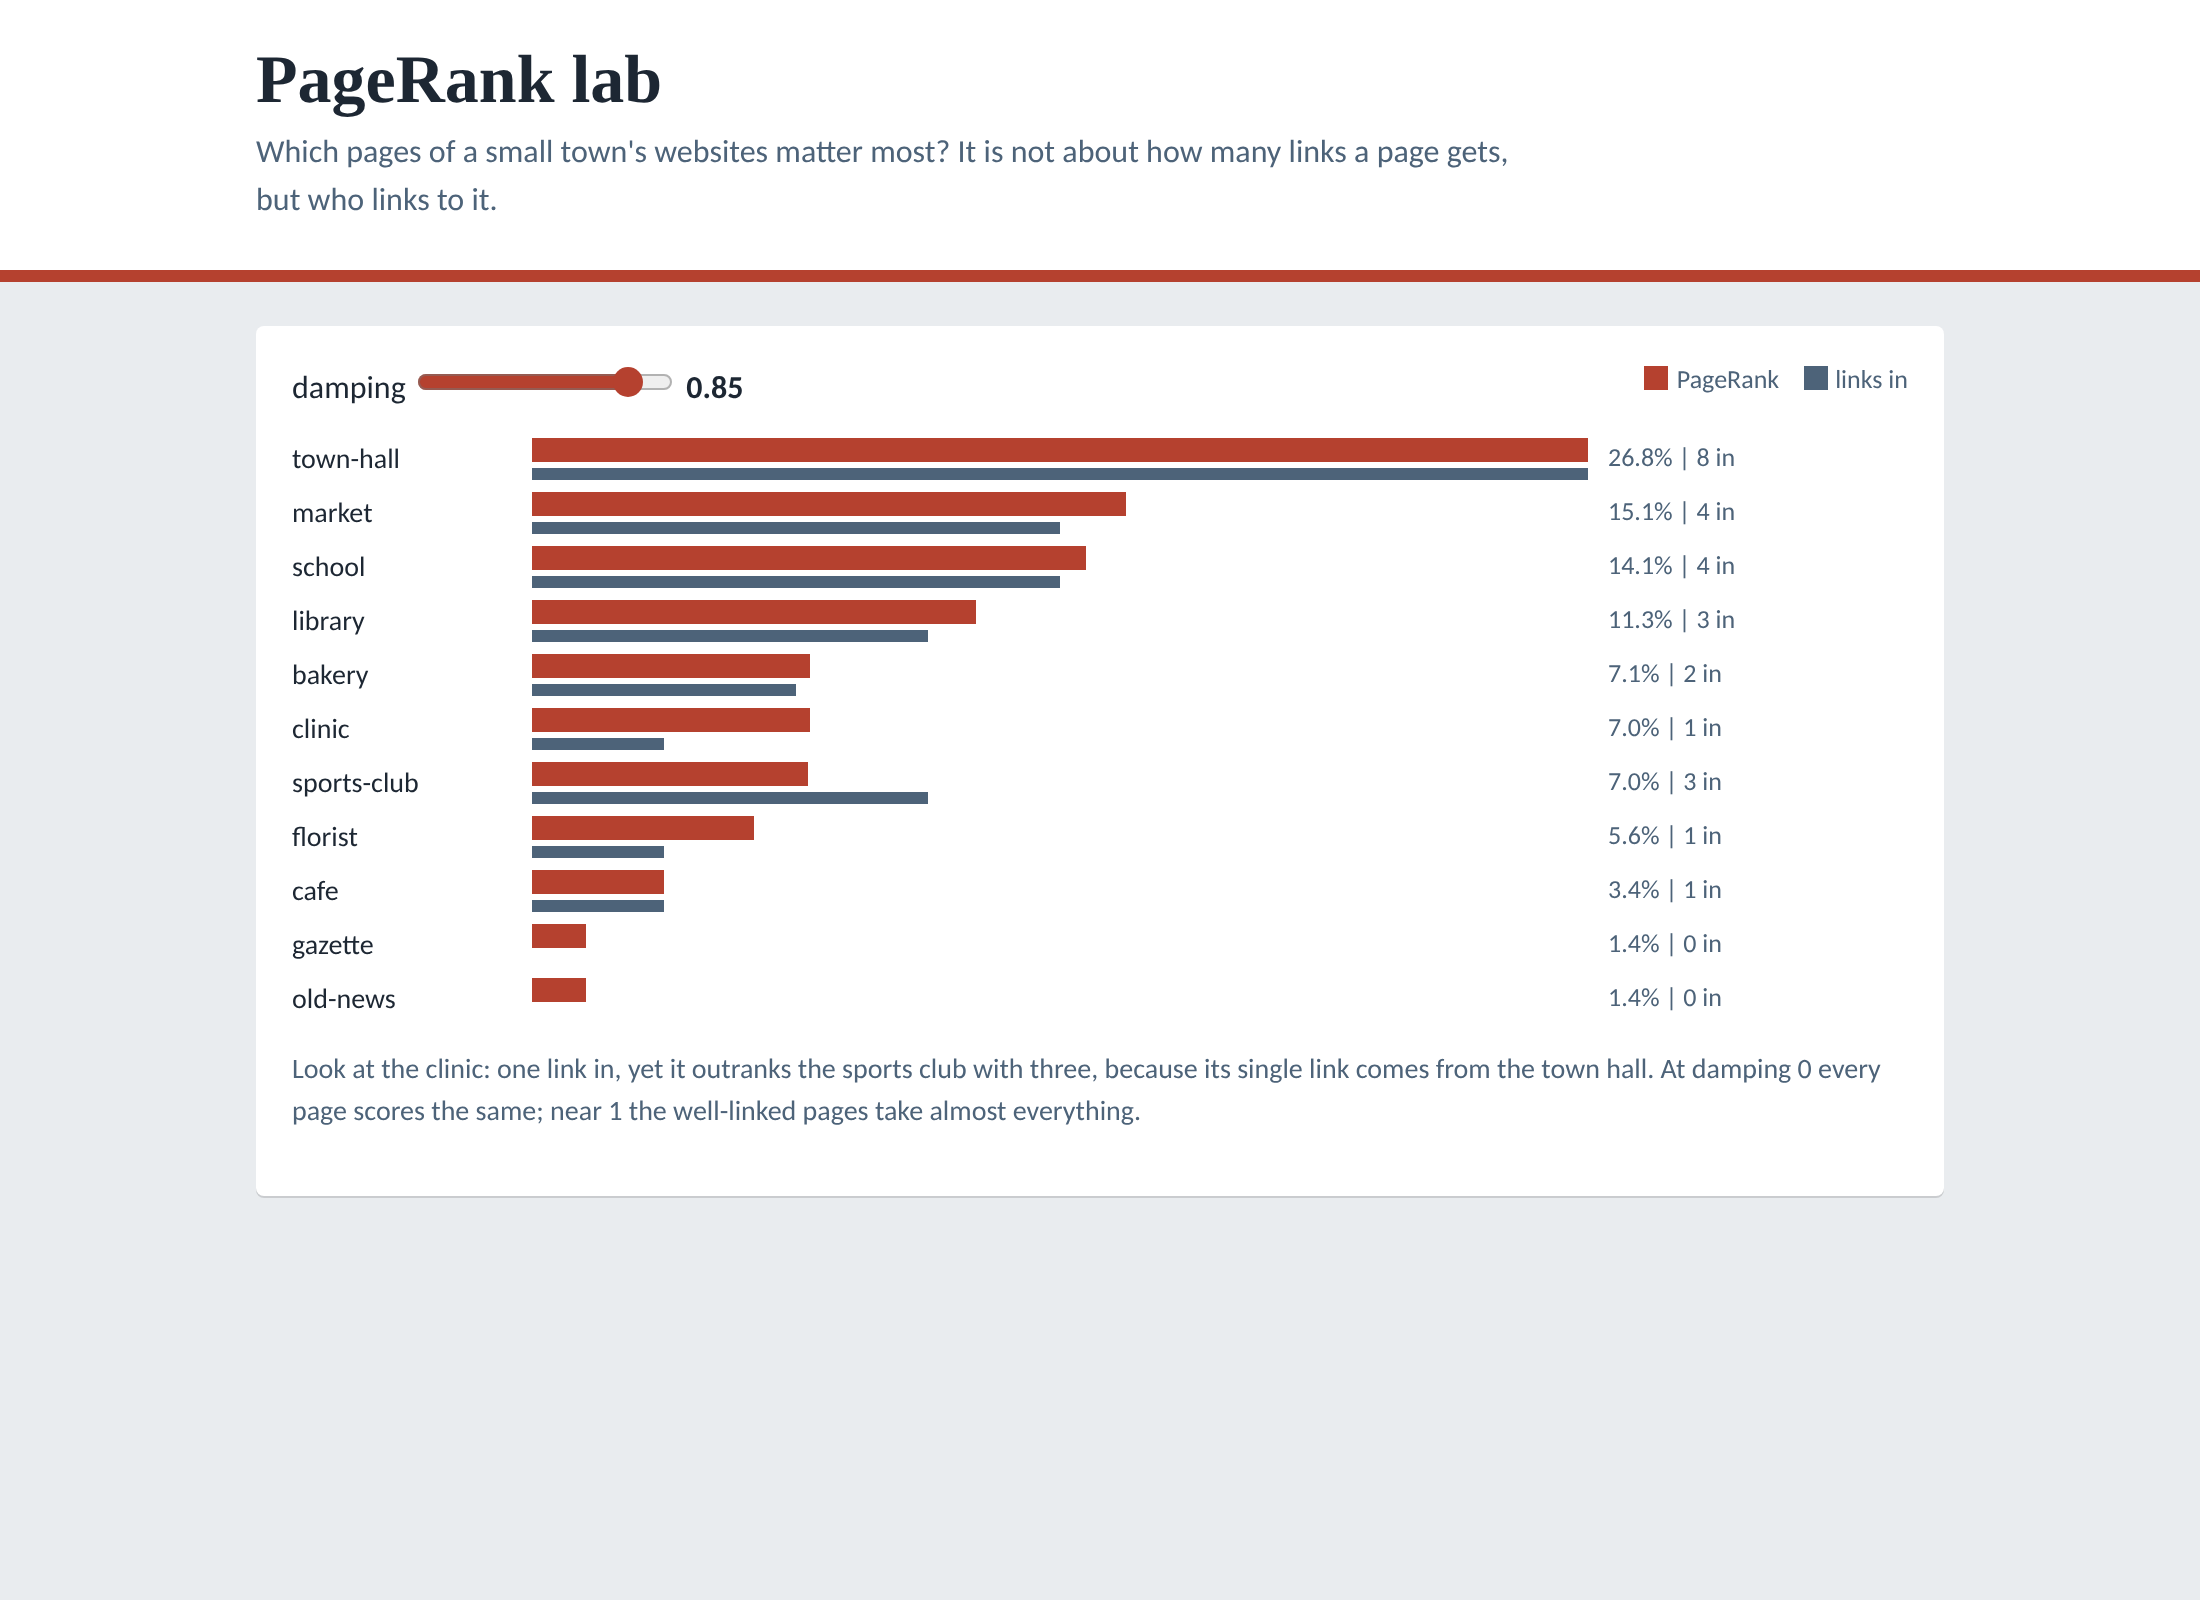
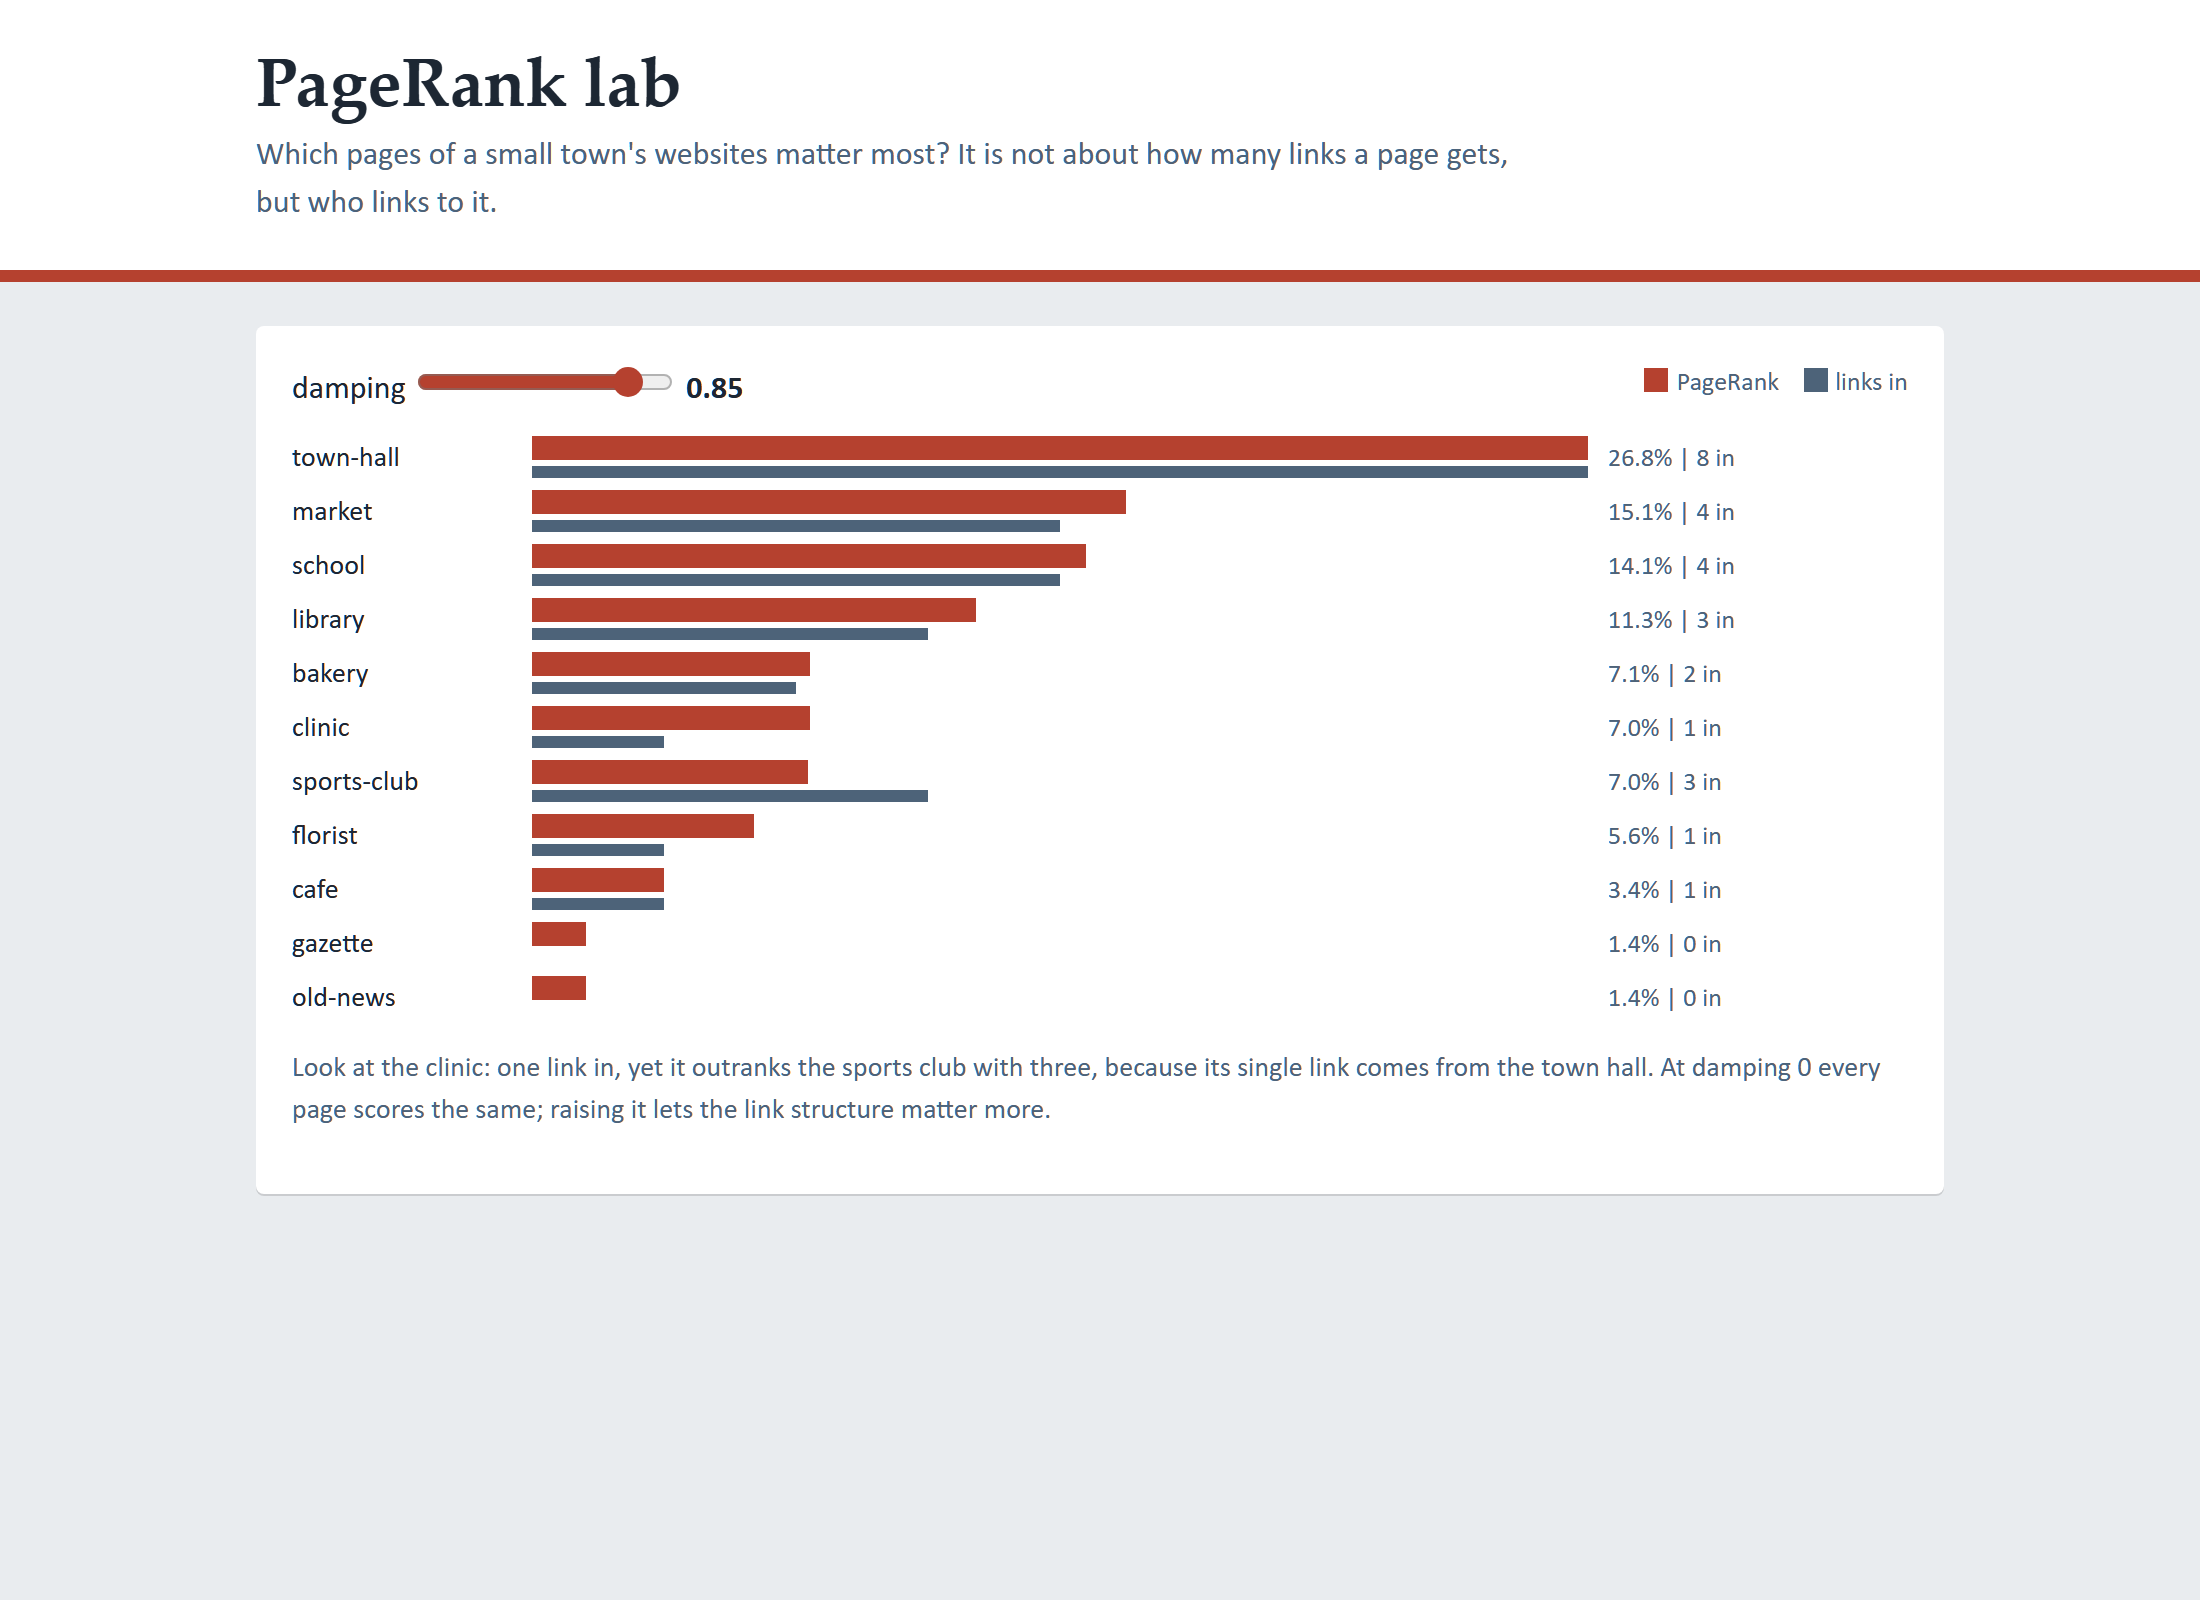
Improve pagerank-lab

diff --git a/projects/pagerank-lab/static/index.html b/projects/pagerank-lab/static/index.html
@@ -11,14 +11,15 @@ main{max-width:880px;margin:0 auto;padding:22px 18px}.card{background:var(--card
 .row{display:grid;grid-template-columns:110px 1fr 150px;gap:10px;align-items:center;margin:6px 0;font-size:14px}
 .bars{display:flex;flex-direction:column;gap:3px}.b1{height:12px;background:var(--brick)}.b2{height:6px;background:var(--slate)}
 .num{font-variant-numeric:tabular-nums;color:var(--slate);font-size:13px}.note{font-size:14px;color:var(--slate);margin-top:14px}
+@media (prefers-color-scheme: dark){body{background:#15161c;color:#eceef5}header{background:#1d2230}header h1{color:#f3e8dd}header p,header .sub{color:#c4d0e6;opacity:1}.card{color:#1d2433}}
 </style></head><body><header><div><h1>PageRank lab</h1><p class="sub">Which pages of a small town's websites matter most? It is not about how many links a page gets, but who links to it.</p></div></header>
 <main><div class="card"><div class="head"><label>damping <input id="d" type="range" min="0" max="0.99" step="0.01" value="0.85"> <b id="dv">0.85</b></label>
 <span class="legend"><i style="background:#b5412f"></i>PageRank<i style="background:#4d6379"></i>links in</span></div><div id="rows"></div>
-<p class="note" id="n"></p></div></main><script>
+<p class="note" id="n"></p></div><p id="note" role="status"></p></main><script>
 const $=i=>document.getElementById(i);
-async function load(){const d=$('d').value;$('dv').textContent=d;const j=await (await fetch('/town?damping='+d)).json();
+async function load(){try{const d=$('d').value;$('dv').textContent=d;const j=await (await fetch('/town?damping='+d)).json();
 const deg=Object.fromEntries(j.indegree.map(x=>[x.page,x.links_in])),mx=Math.max(...j.pagerank.map(x=>x.score));
 $('rows').innerHTML=j.pagerank.map(x=>`<div class="row"><span>${x.page}</span><div class="bars"><div class="b1" style="width:${x.score/mx*100}%"></div><div class="b2" style="width:${deg[x.page]/8*100}%"></div></div><span class="num">${(x.score*100).toFixed(1)}%  |  ${deg[x.page]} in</span></div>`).join('');
-$('n').textContent='Look at the clinic: one link in, yet it outranks the sports club with three, because its single link comes from the town hall. At damping 0 every page scores the same; raising it lets the link structure matter more.'}
+$('n').textContent='Look at the clinic: one link in, yet it outranks the sports club with three, because its single link comes from the town hall. At damping 0 every page scores the same; raising it lets the link structure matter more.'}catch(e){$('note').textContent='Could not load the town graph. Try again.'}}
 $('d').oninput=load;load();
 </script></body></html>

diff --git a/projects/pagerank-lab/tests/test_all.py b/projects/pagerank-lab/tests/test_all.py
@@ -64,3 +64,9 @@ def test_api():
     assert r["pagerank"][0]["score"] == 0.5
     assert c.post("/rank", json={"links": {}}).status_code == 422
     assert c.get("/town", params={"damping": 1}).status_code == 422 and c.get("/").status_code == 200
+
+
+def test_index_has_town_error_text_and_dark_scheme():
+    page = c.get("/").text
+    assert "Could not load the town graph" in page
+    assert "prefers-color-scheme: dark" in page
